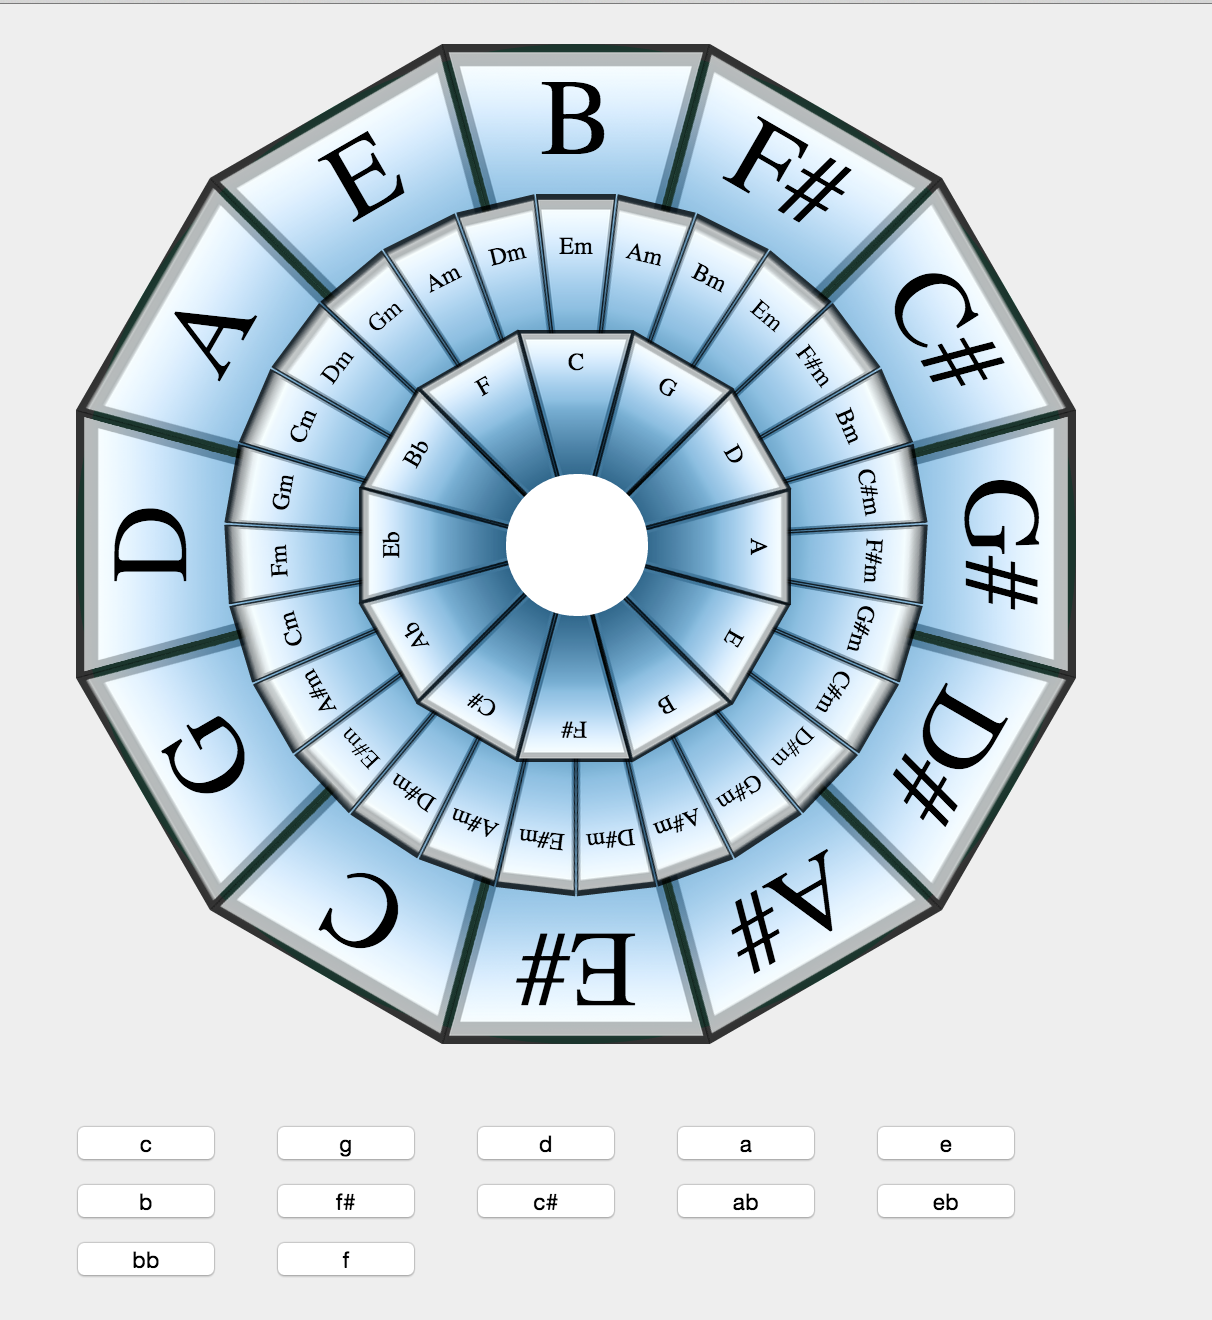
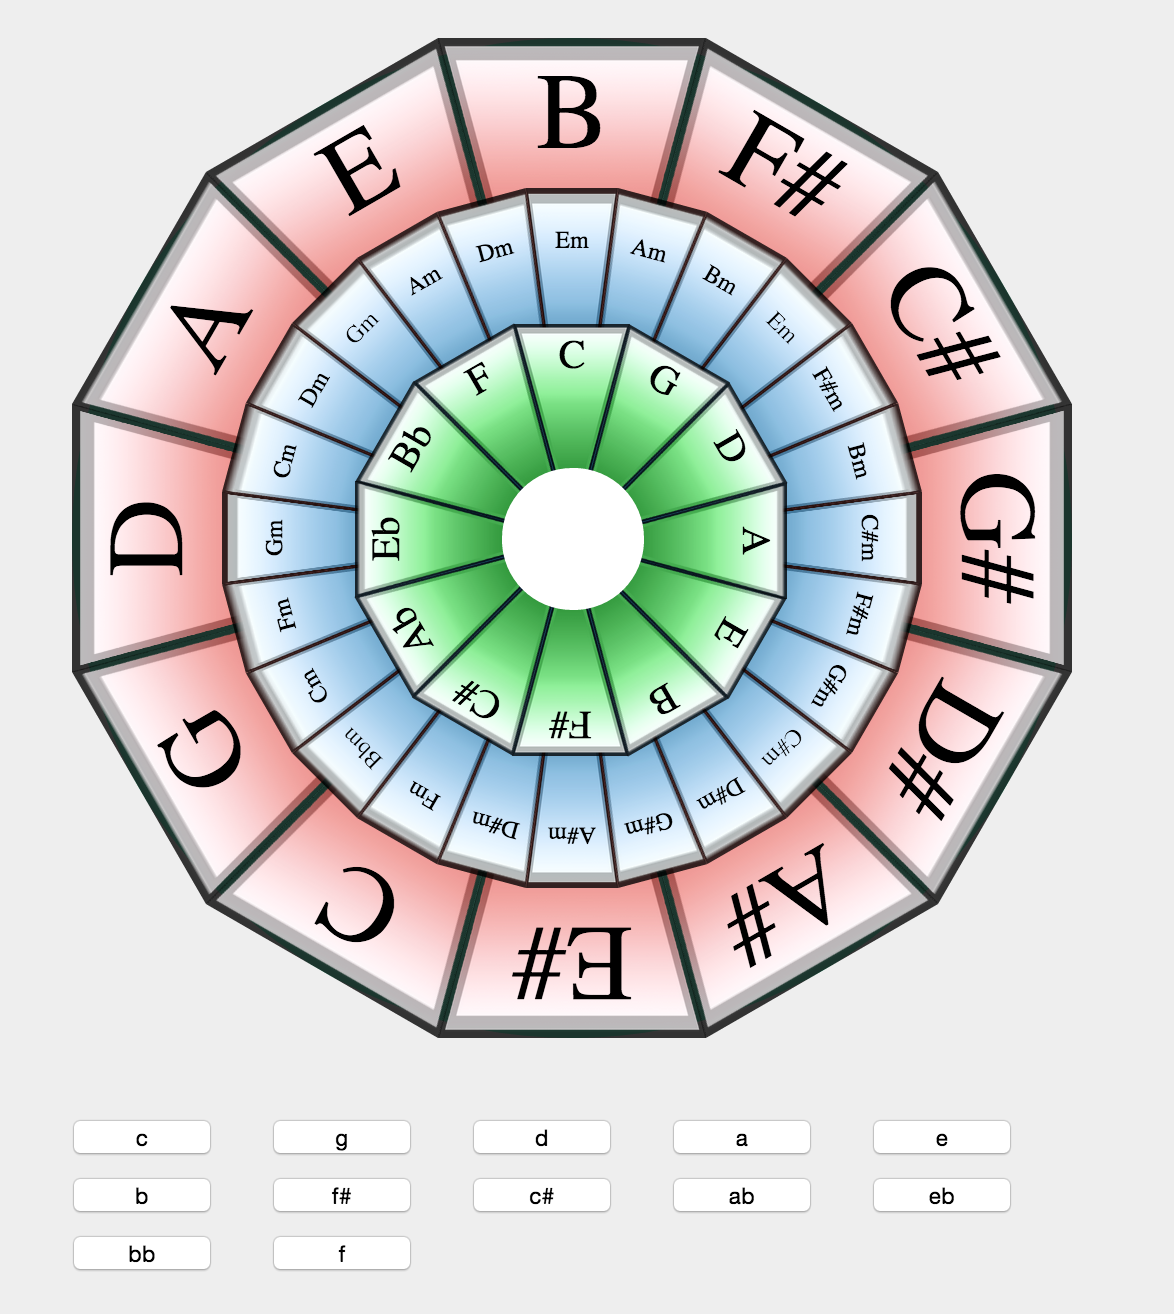
changed slice colors

diff --git a/js/ChordWheel.js b/js/ChordWheel.js
@@ -35,7 +35,7 @@ function ChordWheel(config) {
             throwProps:true, //enables kinetic-based flicking (continuation of movement, decelerating after releasing the mouse/finger)
             snap:function(endValue) { 
                 //this function gets called when the mouse/finger is released and it plots where rotation should normally end and we can alter that value and return a new one instead. This gives us an easy way to apply custom snapping behavior with any logic we want. In this case, just make sure the end value snaps to 90-degree increments but only when the "snap" checkbox is selected.
-                return Math.round(360 / notes1Arr.length);
+                return 360 / notes1Arr.length;
             }
         });
     };
@@ -92,7 +92,7 @@ function ChordWheel(config) {
             data: notes1Arr,
             className: 'wheel1',
             bgColor: 'red',
-            bgImage: 'img/slice.png',
+            bgImage: 'img/slice-green.png',
             zIndex: 3, 
             parent: container
         });
@@ -105,7 +105,7 @@ function ChordWheel(config) {
             data: notes2Arr,
             className: 'wheel2',
             bgColor: 'yellow',
-            bgImage: 'img/slice.png',
+            bgImage: 'img/slice-blue.png',
             zIndex: 2,
             parent: container
         });
@@ -118,7 +118,7 @@ function ChordWheel(config) {
             data: notes3Arr,
             className: 'wheel3',
             bgColor: 'yellow',
-            bgImage: 'img/slice.png',
+            bgImage: 'img/slice-red.png',
             zIndex: 1,
             parent: container
         });
